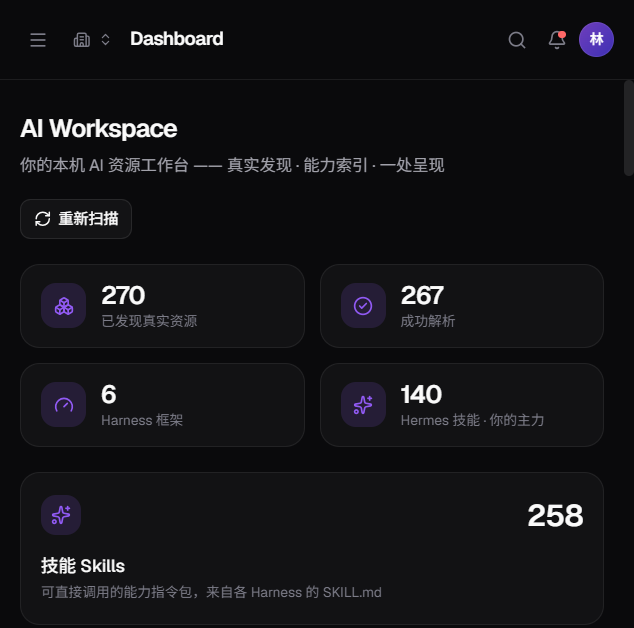
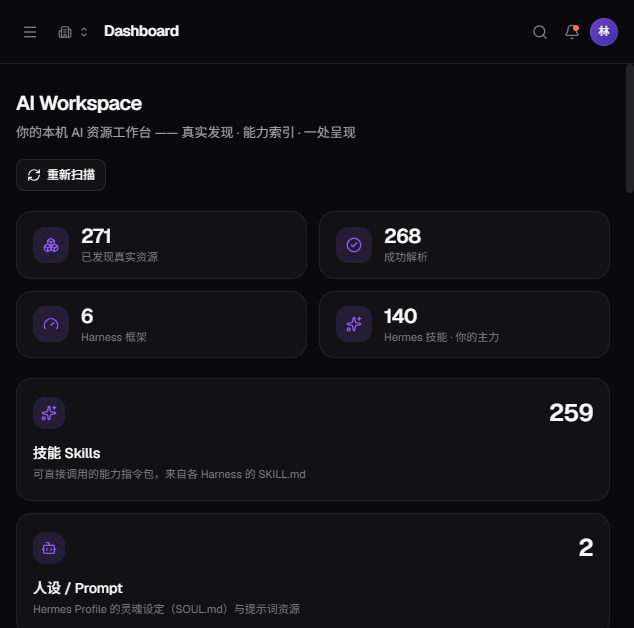
chore(release): 开源发布准备——敏感审计 + 临时文件清理 + README 截图与基线同步
- 审计：无密钥/token 入库；hermes adapter 不读 api_key；git 历史无 .env；data/ 未跟踪
- 清理：.tmp-user-image.png 移除并 gitignore 追加 .tmp-*
- 截图：4 张预览图全部重新实拍并同步 README（271/268/7/140 基线）
- 回归：lint / tsc / db:check / build 全绿

diff --git a/README.md b/README.md
@@ -16,13 +16,13 @@
 
 ## 界面预览
 
-> 以下截图均为**本机真实数据**实拍（同一套 270 资源基线）。
+> 以下截图均为**本机真实数据**实拍（当前基线：271 资源 / 268 可解析 / 7 个 Harness / 140 个 Hermes 技能）。
 
 | 页面 | 预览 |
 | --- | --- |
 | 展示首页（资源统计 + 类型 + Hermes 配置卡 + 技能画廊） | ![Dashboard](docs/screenshots/01-dashboard.png) |
 | 资源列表（统计 + Harness 网格 + 可筛选列表） | ![Resources](docs/screenshots/02-resources.png) |
-| 资源索引 · 按类别视图（135 技能 / 25 类） | ![Categories](docs/screenshots/03-resources-categories.png) |
+| 资源索引 · 按类别视图（技能卡 + 每项真实用法说明） | ![Categories](docs/screenshots/03-resources-categories.png) |
 | Hermes 主配置详情（默认模型 / Provider / 16 个可用模型） | ![Hermes Config](docs/screenshots/04-hermes-config.png) |
 
 > 注意：截图中显示的路径、模型、人设内容来自截图时运行者的本机环境；别人克隆项目后扫到的是**自己电脑**的资源。
@@ -174,9 +174,9 @@ SQLite（better-sqlite3 + Drizzle；WAL + foreign_keys=ON）
 
 ## 当前真实数据基线（2026-09 实测）
 
-- 扫描结果：**270 个资源 / 267 个可解析**（其中 Hermes 140：135 技能 + 2 插件 + 2 人设 + 1 主配置）
-- 已识别 Harness：Hermes（主力）、Doubao（105 技能）、Cursor、Codex、Claude（已收敛会话记录噪声）、其它少量残留
-- 资源类型：skill 258 / plugin 4 / prompt 2 / rule 6 / other 1（未解析条目均如实标记 parseable=false 并保留真实路径）
+- 扫描结果：**271 个资源 / 268 个可解析**（其中 Hermes 140：135 技能 + 2 插件 + 2 人设 + 1 主配置）
+- 已识别 Harness：Hermes（主力）、Doubao（105 技能）、Cursor（19 + User 1）、Codex（3）、Claude（空根）、project-agents（2，本仓库 AGENTS/CLAUDE.md）
+- 资源类型：skill 259 / plugin 4 / prompt 2 / rule 6（未解析条目均如实标记 parseable=false 并保留真实路径）
 
 ## 明确未实现（有意延后）
 
